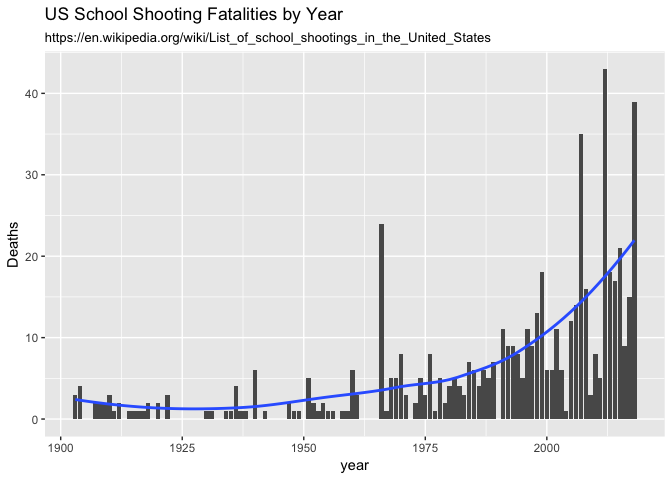
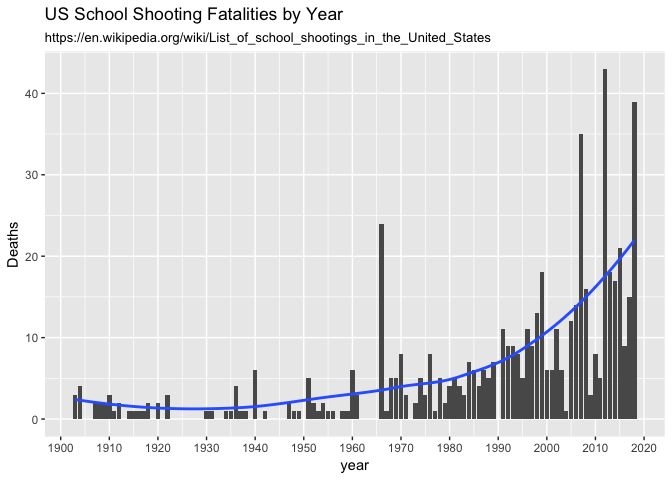
Event graph

diff --git a/USSchoolShootings.md b/USSchoolShootings.md
@@ -179,6 +179,7 @@ yearly <- school_shootings %>%
 ggplot(yearly, aes(x = year, y = Deaths)) + 
   geom_col() + 
   geom_smooth(se = FALSE) +
+  scale_x_continuous(breaks = seq(1900, 2020, by = 10)) +
   ggtitle("US School Shooting Fatalities by Year",
           subtitle = "https://en.wikipedia.org/wiki/List_of_school_shootings_in_the_United_States")
 ```
@@ -188,7 +189,20 @@ ggplot(yearly, aes(x = year, y = Deaths)) +
 ![](USSchoolShootings_files/figure-markdown_github/unnamed-chunk-1-1.png)
 
 ``` r
-# get per-year popluation estimates
+ggplot(yearly, aes(x = year, y = count)) + 
+  geom_col() + 
+  geom_smooth(se = FALSE) +
+  scale_x_continuous(breaks = seq(1900, 2020, by = 10)) +
+  ggtitle("US School Shooting Events by Year",
+          subtitle = "https://en.wikipedia.org/wiki/List_of_school_shootings_in_the_United_States")
+```
+
+    ## `geom_smooth()` using method = 'loess'
+
+![](USSchoolShootings_files/figure-markdown_github/unnamed-chunk-1-2.png)
+
+``` r
+# get per-year population estimates
 # read per-decade counts
 us_population <- read.csv("USpopulation.csv", stringsAsFactors = FALSE)
 # confirm counts by 10s in order
@@ -243,16 +257,29 @@ est <- approx(us_population$year, log(us_population$US.population), yearly$year,
               method = "linear")
 yearly$US.population <- exp(est$y)
 
-# plot the ratio
+# plot the rate
 ggplot(yearly, aes(x = year, y = Deaths/US.population)) + 
   geom_col() + 
   geom_smooth(se = FALSE, color = "red") +
+  scale_x_continuous(breaks = seq(1900, 2020, by = 10)) +
   ggtitle("US School Shootings Fatalities by Year Scaled by Estimated US Population")
 ```
 
     ## `geom_smooth()` using method = 'loess'
 
-![](USSchoolShootings_files/figure-markdown_github/unnamed-chunk-1-2.png)
+![](USSchoolShootings_files/figure-markdown_github/unnamed-chunk-1-3.png)
+
+``` r
+ggplot(yearly, aes(x = year, y = count/US.population)) + 
+  geom_col() + 
+  geom_smooth(se = FALSE, color = "red") +
+  scale_x_continuous(breaks = seq(1900, 2020, by = 10)) +
+  ggtitle("US School Shootings, Events by Year Scaled by Estimated US Population")
+```
+
+    ## `geom_smooth()` using method = 'loess'
+
+![](USSchoolShootings_files/figure-markdown_github/unnamed-chunk-1-4.png)
 
 ``` r
 # re-plot normalized a typical non-zero rate in the 1950s and 1960s.
@@ -260,24 +287,45 @@ ggplot(yearly, aes(x = year, y = Deaths/US.population)) +
 # lots of issues on what to use as the base rate).
 base_rate_f <- yearly %>%
   filter((year>=1950) & (year<=1969)) %>%
-  summarize(count = sum(count), 
+  summarize(count = mean(count), 
             Deaths = mean(Deaths), 
             US.population = mean(US.population),
             rate = mean(Deaths/US.population),
+            events = mean(count/US.population),
             n = n())
-base_rate <- base_rate_f$rate
+base_rate_d <- base_rate_f$rate
 
-ggplot(yearly, aes(x = year, y = (Deaths/US.population)/base_rate)) + 
+ggplot(yearly, aes(x = year, y = (Deaths/US.population)/base_rate_d)) + 
   geom_col() + 
   geom_smooth(se = FALSE, color = "red") +
   geom_hline(yintercept = 1, alpha= 0.5) +
   ylab("relative rate") +
-  ggtitle("US School Shootings Fatality Rate Relative to US Population",
+  scale_x_continuous(breaks = seq(1900, 2020, by = 10)) +
+  scale_y_continuous(breaks = seq(0, 8, by = 0.5)) +
+  ggtitle("US School Shootings, Fatality Rate Relative to US Population",
           subtitle = "scaled relative to 1950s through 1960s rate")
 ```
 
     ## `geom_smooth()` using method = 'loess'
 
-![](USSchoolShootings_files/figure-markdown_github/unnamed-chunk-1-3.png)
+![](USSchoolShootings_files/figure-markdown_github/unnamed-chunk-1-5.png)
+
+``` r
+base_rate_e <- base_rate_f$events
+
+ggplot(yearly, aes(x = year, y = (count/US.population)/base_rate_e)) + 
+  geom_col() + 
+  geom_smooth(se = FALSE, color = "red") +
+  geom_hline(yintercept = 1, alpha= 0.5) +
+  ylab("relative rate") +
+  scale_x_continuous(breaks = seq(1900, 2020, by = 10)) +
+  scale_y_continuous(breaks = seq(0, 10, by = 0.5)) +
+  ggtitle("US School Shootings, Event Rate Relative to US Population",
+          subtitle = "scaled relative to 1950s through 1960s rate")
+```
+
+    ## `geom_smooth()` using method = 'loess'
+
+![](USSchoolShootings_files/figure-markdown_github/unnamed-chunk-1-6.png)
 
 In this analysis we are being conservative in using an inflated comparison rate (to try to not over-emphasize increase). The inflation is due to including only years in the 1950s and 1960s that had a shooting event and also there is a large event in the interval even though large events were rare in that time-frame (so we have not chosen an interval that avoids such).
